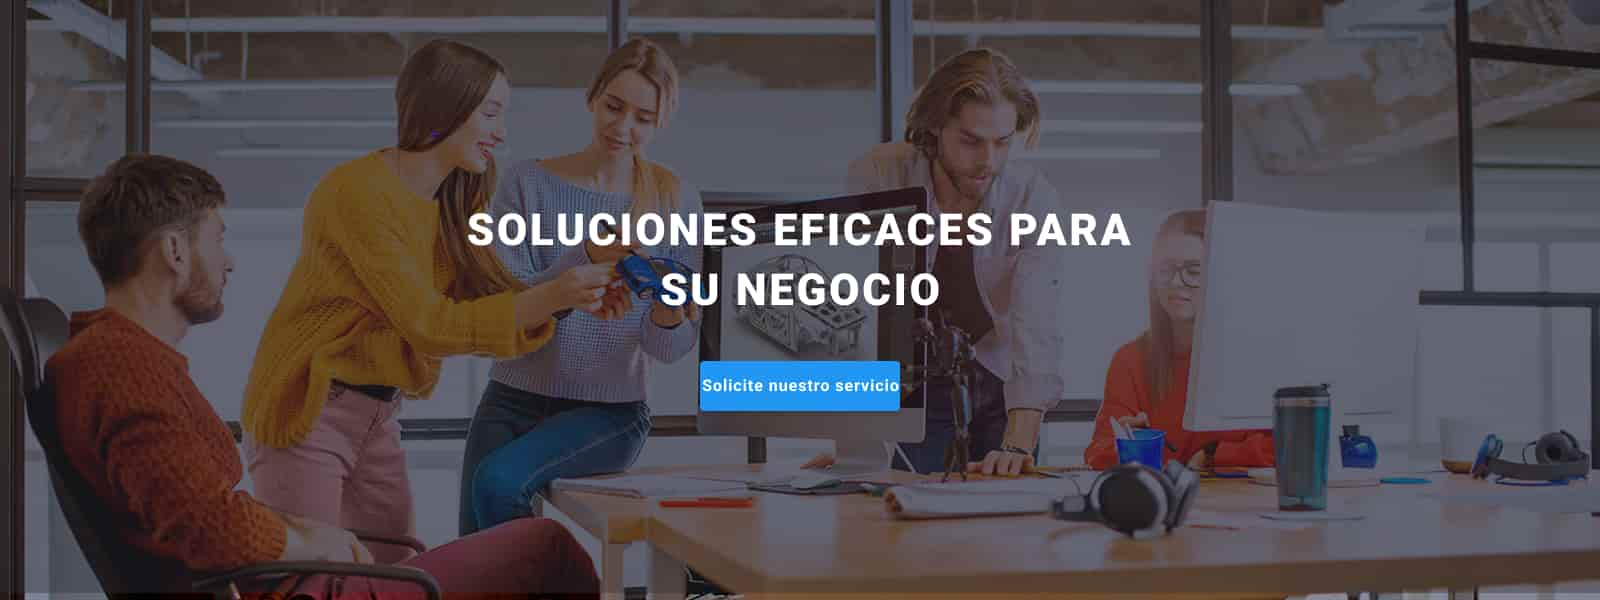
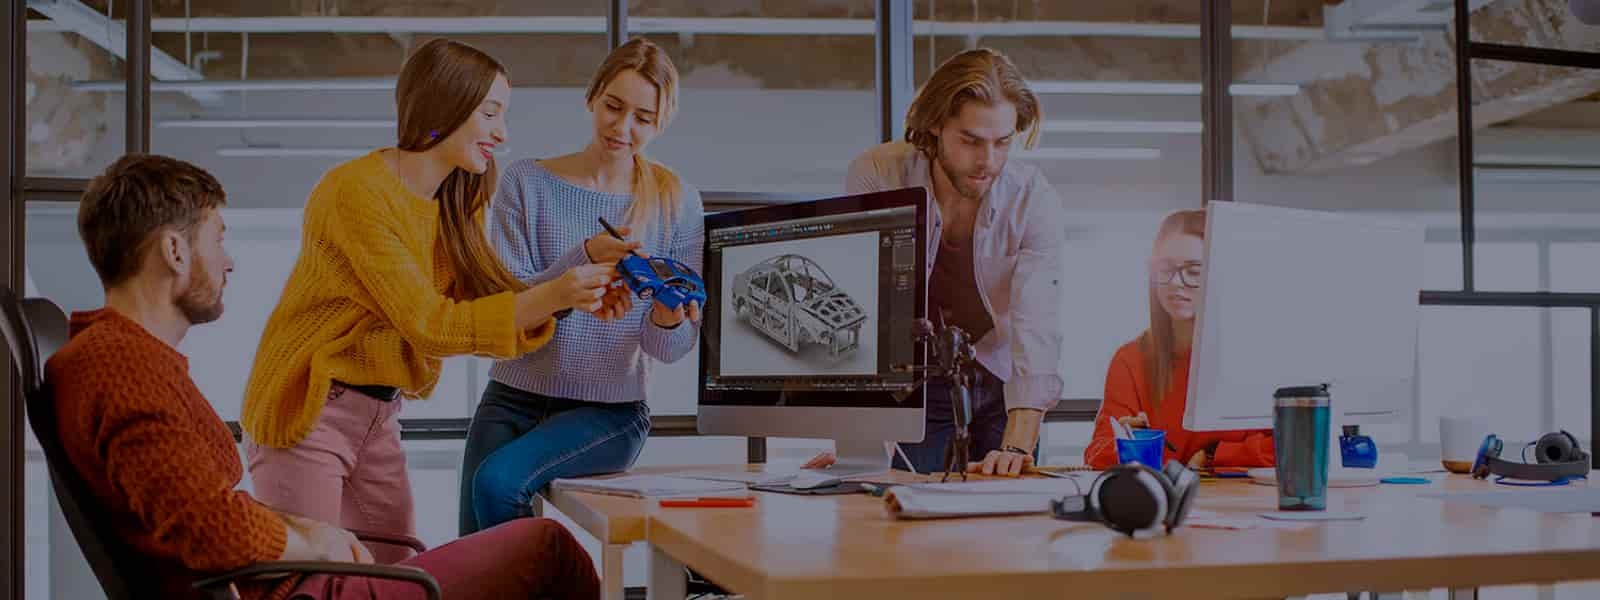
cambio17-10

diff --git a/css/styles.css b/css/styles.css
@@ -266,21 +266,18 @@ border-bottom-width: 1px;
 
   padding-top: 200px;
   padding-bottom: 280px;
-  width: auto;
-  margin: auto;
   background: linear-gradient(
       to bottom,
       rgba(47, 48, 58, 0.4),
       rgba(0, 0, 0, 0.4)
     ), url("../imagen/fondo-index.jpg");
     background-repeat: no-repeat;
+    background-position: center;
+    background-size: cover;
 }
 
-.hero {
- 
-  
-  
-}
+
+
 .section {
   padding-top: 80px;
   padding-bottom: 80px;

diff --git a/index.html b/index.html
@@ -52,7 +52,7 @@
 
     <main>
       <section class="img-fondo" width="1600px" heigh="600">
-        <div class="container container__fondo">
+        <div class="container">
           <h1 class="titulo__hero">SOLUCIONES EFICACES PARA SU NEGOCIO</h1>
         </div>
         <div class="flex__button">
